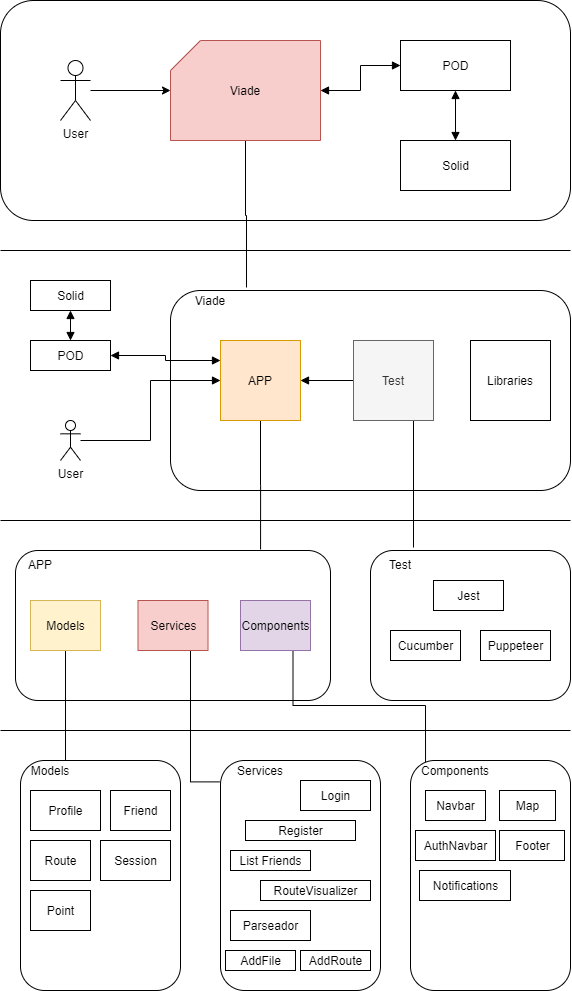
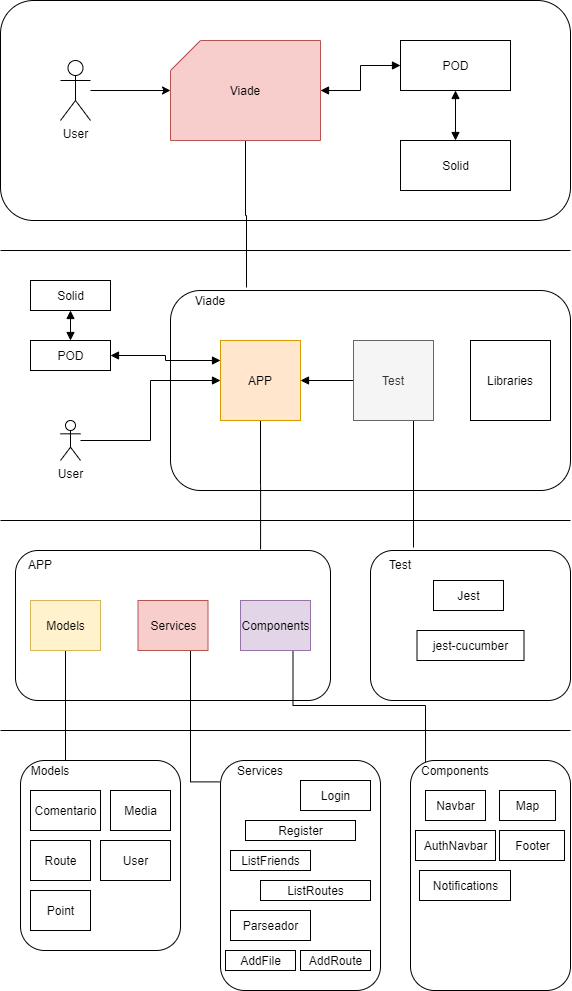
[Test:e2e] Test final

diff --git a/e2e/step-definitions/addRoute.steps.js b/e2e/step-definitions/addRoute.steps.js
@@ -1,0 +1,110 @@
+import 'jest';
+
+import {
+    defineFeature,
+    loadFeature,
+} from 'jest-cucumber';
+
+const feature = loadFeature('./e2e/features/addRoute.feature');
+const puppeteer = require('puppeteer');
+let browser = null;
+let page = null;
+
+defineFeature(feature, test => {
+
+    beforeEach(async () => {
+        jest.setTimeout(1200000);
+    });
+
+    test('Crear una nueva ruta', ({ given, when,and, then }) => {
+
+        given('Soy un usuario logueado', async () => {
+            browser = await puppeteer.launch({
+                headless: false
+            });
+
+            page = await browser.newPage();
+            await page.goto("http://localhost:3000/#/login", {
+                waitUntil: 'networkidle2'
+            });
+
+            await page.waitForSelector(".sc-EHOje.cffgrt");
+            await page.type(".sc-EHOje.cffgrt", "https://viadees5c.solid.community/profile/card#me");
+
+            await page.evaluate(() => {
+                let btns = [...document.querySelectorAll("button")];
+                btns.forEach(function (btn) {
+                    if (btn.innerText === "Iniciar sesión"){
+                        btn.click();
+                    }
+                });
+            });
+
+            await page.waitForSelector("[id='username']", {visible: true});
+            await page.type("[id='username']", "viadees5c");
+
+            await page.waitFor(500);
+            await page.waitForSelector("[id='password']", {visible: true});
+            await page.type("[id='password']", "viadees5c", {visible: true});
+
+            await page.waitFor(500);
+
+            await page.evaluate(() => {
+                let btns = [...document.querySelector(".form-horizontal.login-up-form").querySelectorAll("button")];
+                btns.forEach(function (btn) {
+                    if (btn.innerText === "Log In")
+                        btn.click();
+                });
+            });
+
+            await page.waitForNavigation({
+                waitUntil: 'networkidle2'
+            });
+
+            expect(page.url()).toBe("http://localhost:3000/#/welcome")
+        });
+
+        when('relleno el formulario', async () => {
+
+            await page.goto("http://localhost:3000/#/routes/addRoute", {
+                waitUntil: 'networkidle2'
+            });
+
+            await page.waitForSelector("[id='titulo']", {visible: true});
+            await page.type("[id='titulo']", "Nombre ruta");
+            await page.waitFor(500);
+
+            await page.waitForSelector("[id='descripcion']", {visible: true});
+            await page.type("[id='descripcion']", "Descripcion ruta", {visible: true});
+            await page.waitFor(500);
+        });
+
+        and('marco los puntos en el mapa', async () => {
+            await page.evaluate(() => {
+                window.scrollBy(0, window.innerHeight);
+            });
+            await page.waitFor(1000);
+            await page.mouse.move(500, 500);
+            await page.mouse.down({ button: "left" });
+            await page.mouse.up({ button: "left" });
+            await page.waitFor(1000);
+            await page.mouse.move(520, 500);
+            await page.mouse.down({button: 'left'});
+            await page.mouse.up({button: 'left'});
+
+            await page.waitForSelector("[id='submitId']", {visible: true});
+            await page.evaluate(() => {
+                let btns = [...document.querySelectorAll("[id='submitId']")];
+                btns.forEach(function (btn) {
+                    btn.click();
+                });
+            });
+        });
+
+        then('nos muestra una notificación correcta', async () => {
+            //await page.waitForSelector("[class='toaster-success']", {visible: true});
+            expect(page.url()).toBe("http://localhost:3000/#/routes/addRoute");
+            await browser.close();
+        });
+    });
+});

diff --git a/e2e/step-definitions/listfriend.steps.js b/e2e/step-definitions/listfriend.steps.js
@@ -1,0 +1,86 @@
+import 'jest'
+import { defineFeature, loadFeature } from 'jest-cucumber';
+
+const feature = loadFeature('./e2e/features/listfriend.feature');
+const puppeteer = require('puppeteer');
+let browser = null;
+let page = null;
+
+defineFeature(feature, test => {
+
+    beforeEach(async () => {
+        jest.setTimeout(1200000);
+    });
+
+    test('Listing Friends', ({ given, when, then }) => {
+
+        given('User logged', async () => {
+            browser = await puppeteer.launch({
+                headless: false
+            });
+
+            page = await browser.newPage();
+            await page.goto("http://localhost:3000/#/login", {
+                waitUntil: 'networkidle2'
+            });
+
+
+            await page.waitForSelector(".sc-EHOje.cffgrt");
+            await page.type(".sc-EHOje.cffgrt", "https://viadees5c.solid.community/profile/card#me");
+
+            await page.evaluate(() => {
+                let btns = [...document.querySelectorAll("button")];
+                btns.forEach(function (btn) {
+                    if (btn.innerText == "Iniciar sesión"){
+                        btn.click();
+                    }
+
+                });
+            });
+
+            await page.waitForNavigation({
+                waitUntil: 'networkidle2'
+            });
+
+            await page.waitForSelector("[id='username']", {visible: true});
+            await page.type("[id='username']", "viadees5c");
+
+            await page.waitFor(500);
+            await page.waitForSelector("[id='password']", {visible: true});
+            await page.type("[id='password']", "viadees5c", {visible: true});
+
+            await page.waitFor(500);
+
+            await page.evaluate(() => {
+                let btns = [...document.querySelector(".form-horizontal.login-up-form").querySelectorAll("button")];
+                btns.forEach(function (btn) {
+                    if (btn.innerText == "Log In")
+                        btn.click();
+                });
+            });
+
+            await page.waitForNavigation({
+                waitUntil: 'networkidle2'
+            });
+
+            expect(page.url()).toBe("http://localhost:3000/#/welcome")
+
+        });
+
+        when('goes to Friends', async () => {
+
+            await page.goto("http://localhost:3000/#/friends/listFriends", {
+                waitUntil: 'networkidle2'
+            });
+
+        });
+
+        then('see friend list', async () => {
+          //  await page.waitFor(500);
+            //await page.waitForSelector(".p-col-12", {visible: true});
+        });
+
+
+    });
+
+});

diff --git a/e2e/step-definitions/listRoutes.steps.js b/e2e/step-definitions/listRoutes.steps.js
@@ -1,0 +1,74 @@
+import 'jest'
+import { defineFeature, loadFeature } from 'jest-cucumber';
+
+const feature = loadFeature('./e2e/features/listRoutes.feature');
+const puppeteer = require('puppeteer');
+let browser = null;
+let page = null;
+
+defineFeature(feature, test => {
+
+    beforeEach(async () => {
+        jest.setTimeout(1200000);
+    });
+
+    test('List my routes at pod', ({ given, when, then }) => {
+
+        given('A user in session', async () => {
+            browser = await puppeteer.launch({
+                headless: false
+            });
+
+            page = await browser.newPage();
+            await page.goto("http://localhost:3000/#/login", {
+                waitUntil: 'networkidle2'
+            });
+
+
+            await page.waitForSelector(".sc-EHOje.cffgrt");
+            await page.type(".sc-EHOje.cffgrt", "https://viadees5c.solid.community/profile/card#me");
+
+            await page.evaluate(() => {
+                let buttons = [...document.querySelectorAll("button")];
+                buttons.forEach(function (btn) {
+                    if (btn.innerText === "Iniciar sesión")
+                        btn.click();
+                });
+            });
+
+            await page.waitForNavigation({
+                waitUntil: 'networkidle2'
+            });
+
+            await page.waitForSelector("[id='username']", {visible: true});
+            await page.type("[id='username']", "viadees5c");
+            await page.waitFor(500);
+            await page.waitForSelector("[id='password']", {visible: true});
+            await page.type("[id='password']", "viadees5c", {visible: true});
+            await page.waitFor(500);
+
+            await page.evaluate(() => {
+                let buttons = [...document.querySelector(".form-horizontal.login-up-form").querySelectorAll("button")];
+                buttons.forEach(function (btn) {
+                    if (btn.innerText === "Log In")
+                        btn.click();
+                });
+            });
+            await page.waitForNavigation({
+                waitUntil: 'networkidle2'
+            });
+            expect(page.url()).toBe("http://localhost:3000/#/welcome")
+        });
+
+        when('i list my routes', async () => {
+            await page.goto("http://localhost:3000/#/routes/listRoutes", {
+                waitUntil: 'networkidle2'
+            });
+        });
+
+        then('i see my routes', async () => {
+            await page.waitFor(500);
+            await page.waitForSelector("[id='verRuta']", {visible: true});
+        });
+    });
+});

diff --git a/e2e/jest-config.js b/e2e/jest-config.js
@@ -1,5 +1,5 @@
 module.exports = {
     preset: 'jest-puppeteer',
     testRegex: './*\\.steps\\.js$',
-    testTimeout: 60000
+    testTimeout: 1200000
 };
